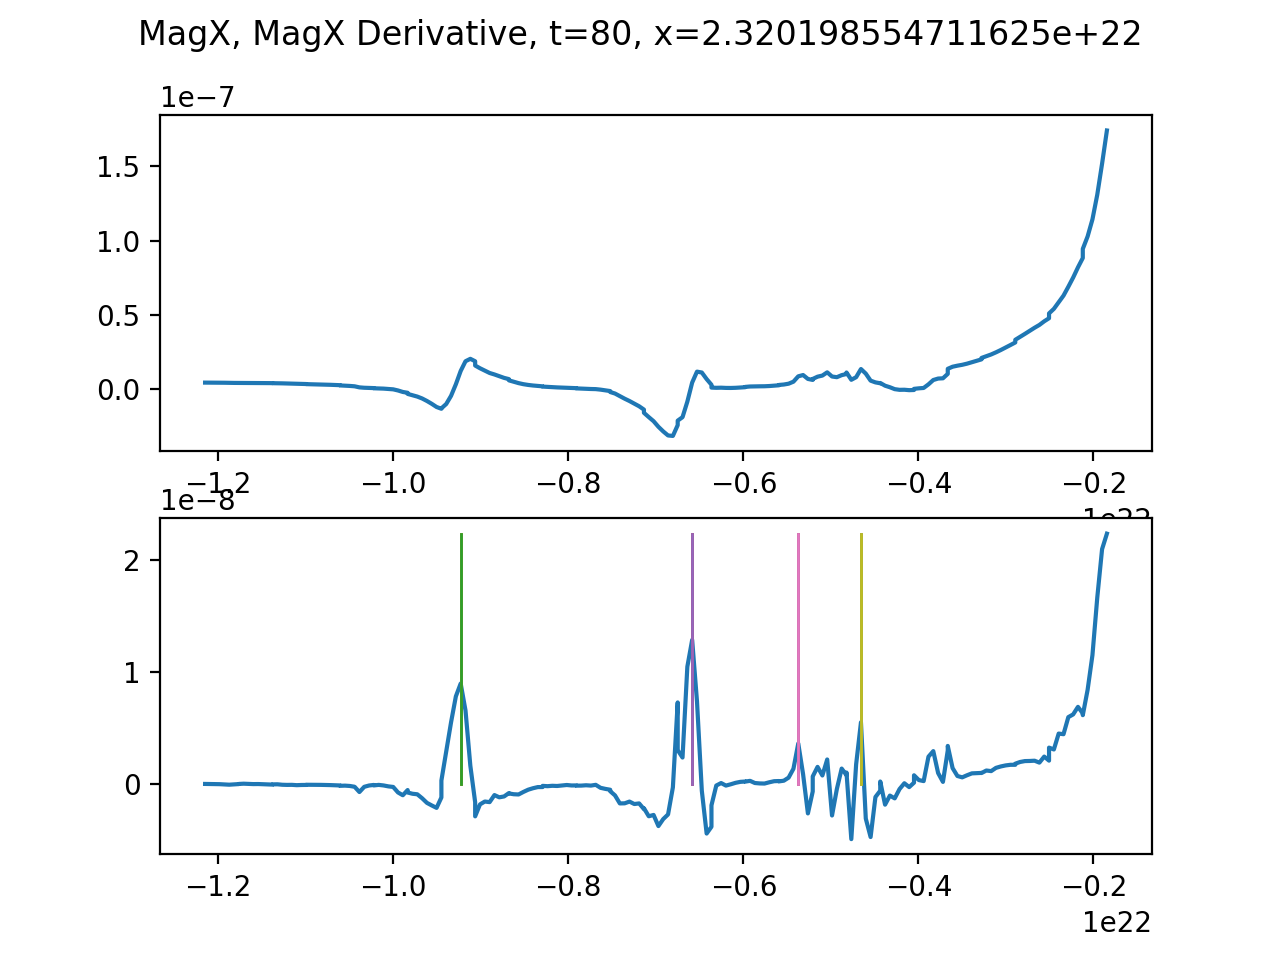
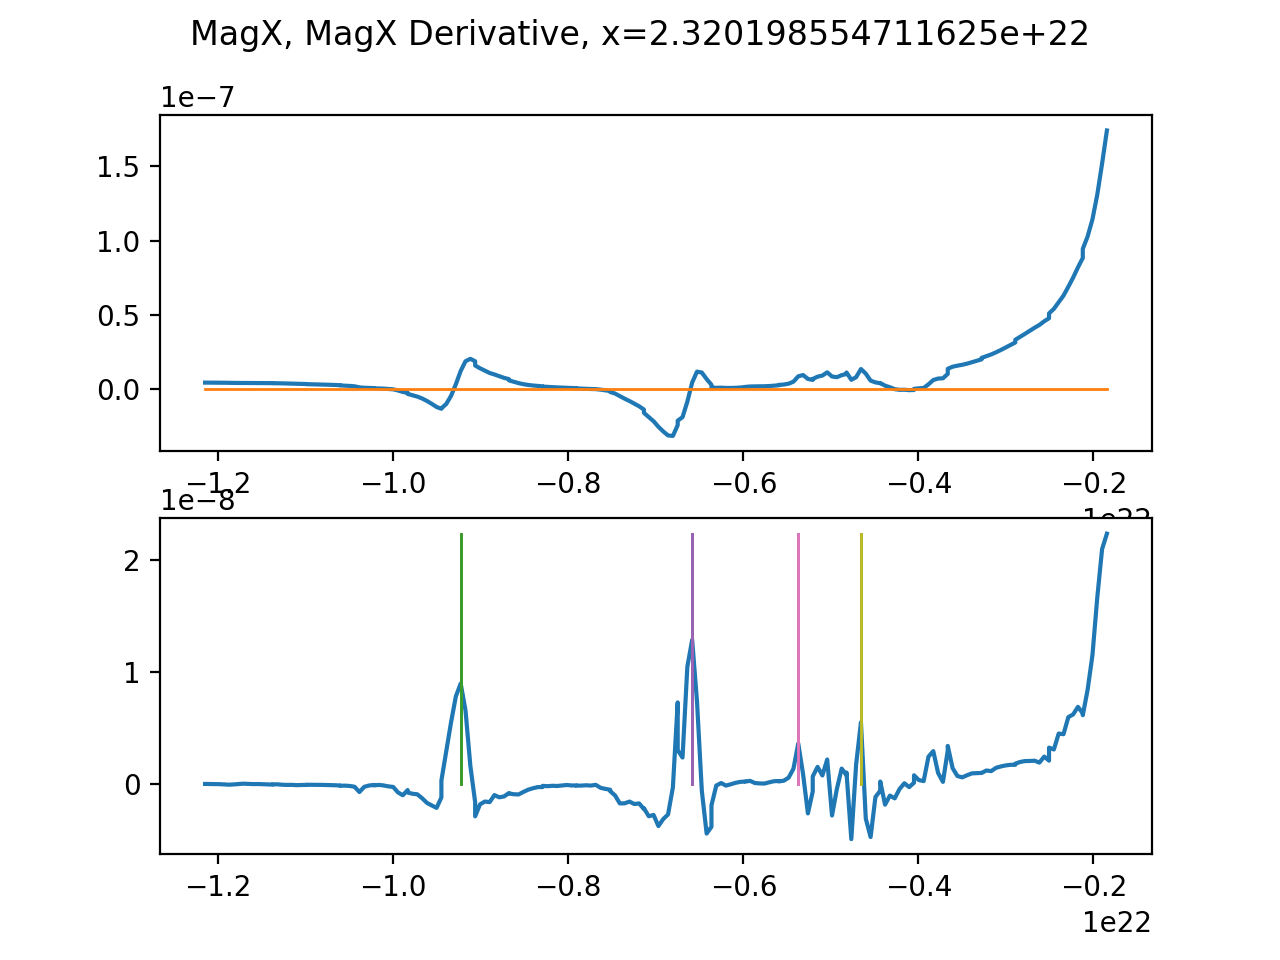
Added file path fixes, added more bubble visualization

Changed region(s): [[0.0938, 0.0, 0.875, 0.0625]]

diff --git a/BubbleVelocityInteractive.py b/BubbleVelocityInteractive.py
@@ -187,7 +187,11 @@ def setup(fileName):
 ### File setup
     
 # filename = "/Users/wongb/Documents/URS Data/m2_c1_16x8_64x64/More Plot Files/parkerCRs_hdf5_plt_cnt_0080"
+# filedirectory = "/Users/wongb/Documents/URS Data/m2_c1_16x8_64x64/More Plot Files"
+
+## Mac filenames
 filename = "/Users/bwong/Downloads/URS_Data/m2_c1_16x8_64x64/More Plot Files/parkerCRs_hdf5_plt_cnt_0080"
+filedirectory = "/Users/bwong/Downloads/URS_Data/m2_c1_16x8_64x64/More Plot Files"
 
 out = setup(filename)
 posXarray = out["posXarray"]
@@ -253,9 +257,9 @@ x = closestNum(posXarray, 2.32019*pow(10, 22)) #B
 filenames = []
 field = 'temp'
 for t in range(65, 85):
-    filenames.append("/Users/wongb/Documents/URS Data/m2_c1_16x8_64x64/More Plot Files/parkerCRs_hdf5_plt_cnt_00"
+    filenames.append(filedirectory + "/parkerCRs_hdf5_plt_cnt_00" +
                      +str(t)) #t is a 2 digit number
-    ds = yt.load("/Users/wongb/Documents/URS Data/m2_c1_16x8_64x64/More Plot Files/parkerCRs_hdf5_plt_cnt_00"
+    ds = yt.load(filedirectory + "/parkerCRs_hdf5_plt_cnt_00" +
                      +str(t))
     
     slc = yt.LinePlot(ds, 'temp', [x, ylim, 0], [x, ymin, 0], 512)
@@ -269,8 +273,7 @@ bounds = {'xmin': 2.1*pow(10, 22), 'xmax': 2.5*pow(10, 22), 'ymin': float(min(ad
 field = 'temp'
 
 for t in range(65, 85):
-    ds = yt.load("/Users/wongb/Documents/URS Data/m2_c1_16x8_64x64/More Plot Files/parkerCRs_hdf5_plt_cnt_00"
-                     +str(t))
+    ds = yt.load(filedirectory + "/parkerCRs_hdf5_plt_cnt_00" + str(t))
     timeStamp = str(t)
     ad = ds.all_data()
     dsSelect = ad.include_inside('x', bounds['xmin'], bounds['xmax'])
@@ -377,16 +380,47 @@ print("indices:     " + str(extrema[0]))
 print("magDeriv:    " + str(magDerivative[extrema[0]]))
 print("y positions: " + str(ySlice[extrema[0]]))
 
+#%%
 fig, axs = plt.subplots(2)
-fig.suptitle('MagX, MagX Derivative, x='+str(x))
+fig.subtitle('MagX, MagX Derivative, x='+str(x))
 axs[0].plot(ySlice, magSlice)
+axs[0].plot([max(ySlice), min(ySlice)], [0, 0], lw=1)
 axs[1].plot(ySlice, magDerivative)
 for y in ySlice[extrema[0]]:
     axs[1].plot([y, y], [0, np.max(magDerivative)], lw=1) #lines [x1, x2] [y1, y2]
     axs[1].plot([y, y], [0, np.max(magDerivative)], lw=1) #prominence lines
 fig.savefig("/Users/bwong/URS_FLASH_DataParker/bubble_velocity/col12_t" + str(t))
+
 #%%
-### Iterate
+# matplotlib plot position onto full, large slice
+fig, axs = plt.subplots(1)
+axs.tricontourf(posXarray, posYarray, z, locator=ticker.LogLocator(), levels = lev) #good for irregular Z values
+for y in ySlice[extrema[0]]:
+    axs.plot([x, x],[bounds['ymin'], bounds['ymax']], lw=1, color='red')
+    axs.plot([bounds['xmin'], bounds['xmax']], [y, y], lw=1, color='red')
+
+#%%
+# YT plot position onto slice
+# select col 12
+bounds = {'xmin': 2.1*pow(10, 22), 'xmax': 2.5*pow(10, 22), 'ymin': float(min(ad['y']).value),'ymax': ylim}
+ad = ds.all_data()
+dsSelect = ad.include_inside('x', bounds['xmin'], bounds['xmax'])
+dsSelect = dsSelect.include_inside('y', bounds['ymin'], bounds['ymax'])
+z=tempArray
+lev = np.logspace(np.log10(z.min()), np.log10(z.max()), num=1000)
+slc = yt.SlicePlot(ds, 'z', 'temp',  data_source=dsSelect,
+                       center=( np.sum([bounds['xmin'], bounds['xmax']])/2, np.sum([bounds['ymin'], bounds['ymax']])/2, 0))
+slc.annotate_streamlines('magnetic_field_x','magnetic_field_y',density=3,plot_args={'linewidth':0.5,'color':'r'}) 
+# slc.annotate_title(timeStamp +" "+ field)
+slc.set_width(max([ abs(bounds['xmax']-bounds['xmin']), abs(bounds['ymax']-bounds['ymin']) ]))
+slc.set_zlim('temp', 1e2, 1e6)
+# ann_slc = plt.tricontourf(posXarray, posYarray, z, locator=ticker.LogLocator(), levels = lev)
+# plt.title("Temp (\N{DEGREE SIGN}K)")
+for y in ySlice[extrema[0]]:
+    slc.annotate_line((x, bounds['ymin'], 0), (x, bounds['ymax'], 0), coord_system="data",  plot_args={"color": "red", "linewidth": 1})
+    slc.annotate_line((bounds['xmin'], y, 0), (bounds['xmax'], y, 0), coord_system="data",  plot_args={"color": "red",  "linewidth": 1})
+#%%
+### Iterate peak detection through time
 total_peaks = []
 Ypos = []
 prominences = []
